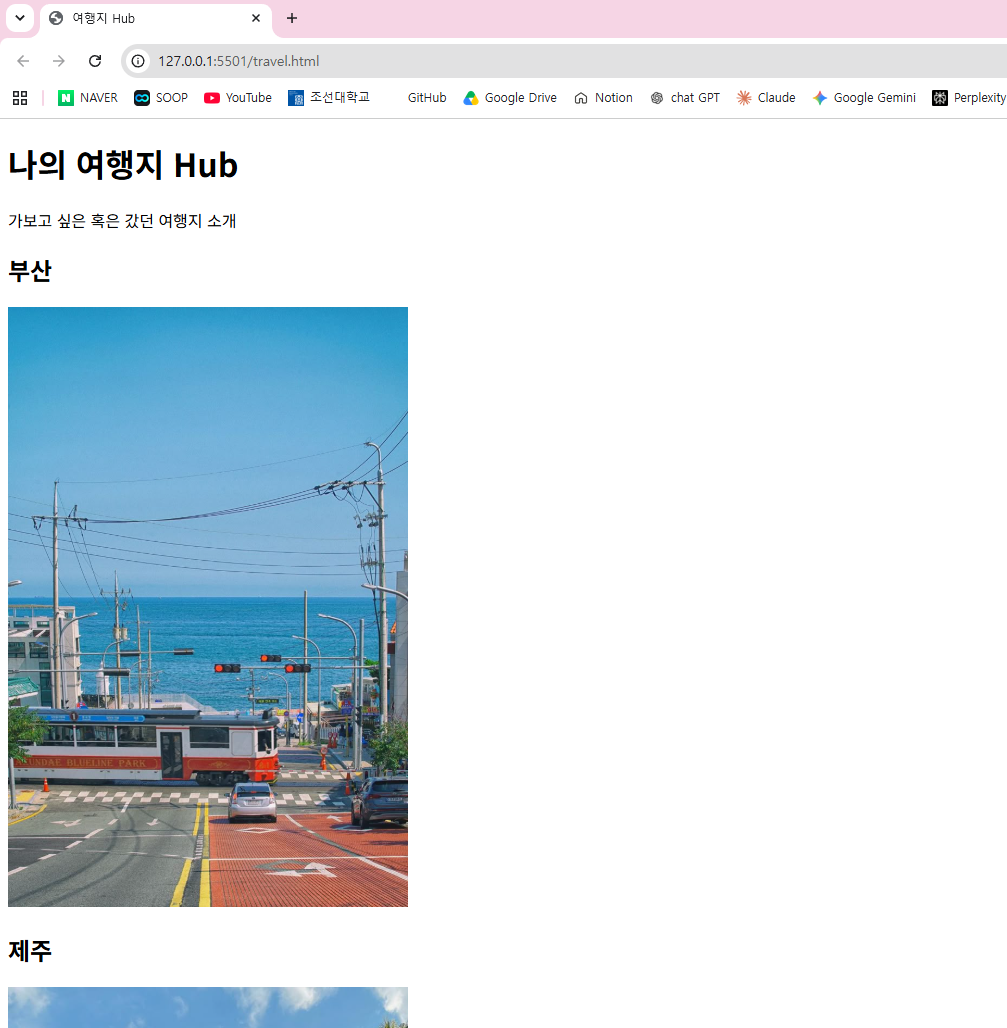
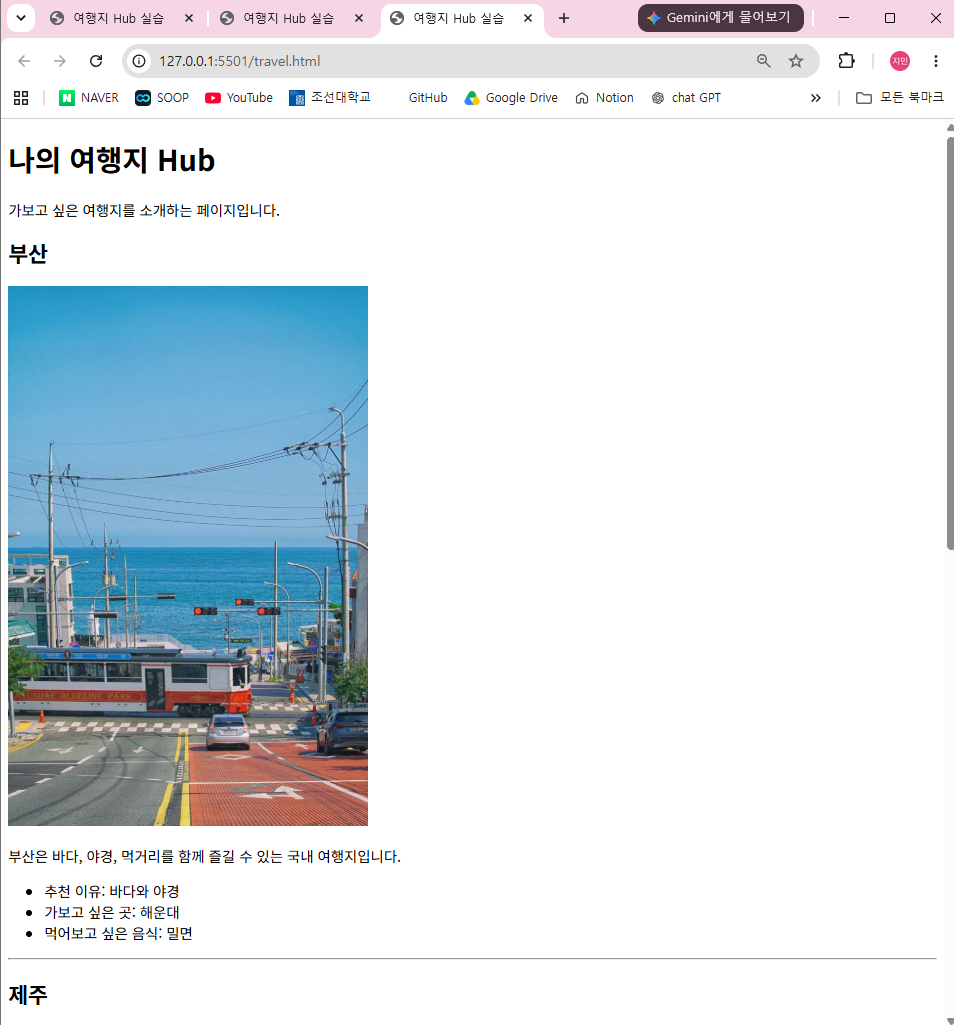
Day1 실습5 여행지 Hub 작성

diff --git a/travel.html b/travel.html
@@ -2,27 +2,49 @@
 <html lang="ko">
 <head>
   <meta charset="UTF-8">
-  <title>여행지 Hub</title>
+  <title>여행지 Hub 실습</title>
 </head>
 <body>
   <header>
     <h1>나의 여행지 Hub</h1>
-    <p>가보고 싶은 혹은 갔던 여행지 소개</p>
+    <p>가보고 싶은 여행지를 소개하는 페이지입니다.</p>
   </header>
 
   <section>
     <h2>부산</h2>
-    <img src="images/busan.png" alt="부산 바다 풍경" width="400">
+    <img src="images/Busan.png" alt="부산 바다 풍경" width="400">
+    <p>부산은 바다, 야경, 먹거리를 함께 즐길 수 있는 국내 여행지입니다.</p>
+    <ul>
+      <li>추천 이유: 바다와 야경</li>
+      <li>가보고 싶은 곳: 해운대</li>
+      <li>먹어보고 싶은 음식: 밀면</li>
+    </ul>
   </section>
+
+  <hr>
 
   <section>
     <h2>제주</h2>
-    <img src="images/jeju.png" alt="제주 자연 풍경" width="400">
+    <img src="images/Jeju.png" alt="제주 자연 풍경" width="400">
+    <p>제주는 자연 경치가 좋고 여유롭게 쉬어가기 좋은 여행지입니다.</p>
+    <ul>
+      <li>추천 이유: 자연 풍경</li>
+      <li>가보고 싶은 곳: 성산일출봉</li>
+      <li>먹어보고 싶은 음식: 흑돼지</li>
+    </ul>
   </section>
+
+  <hr>
 
   <section>
     <h2>오사카</h2>
     <img src="images/osaka.jpg" alt="오사카 도시 거리 풍경" width="400">
+    <p>오사카는 맛있는 음식과 다양한 볼거리가 많은 일본 여행지입니다.</p>
+    <ul>
+      <li>추천 이유: 음식과 쇼핑</li>
+      <li>가보고 싶은 곳: 도톤보리</li>
+      <li>먹어보고 싶은 음식: 타코야키</li>
+    </ul>
   </section>
 
   <p>

diff --git a/index.html b/index.html
@@ -37,5 +37,9 @@
     <p>
         <a href="https://github.com/OMGimin/Skala-HTML-CSS" target="_blank">https://github.com/OMGimin/Skala-HTML-CSS</a>
     </p>
+    <ul style="list-style-type: circle;">
+        <li><a href="signup.html">회원가입 Form 실습</a></li>
+        <li><a href="travel.html">여행지 Hub 실습</a></li>
+    </ul>
 </body>
 </html>